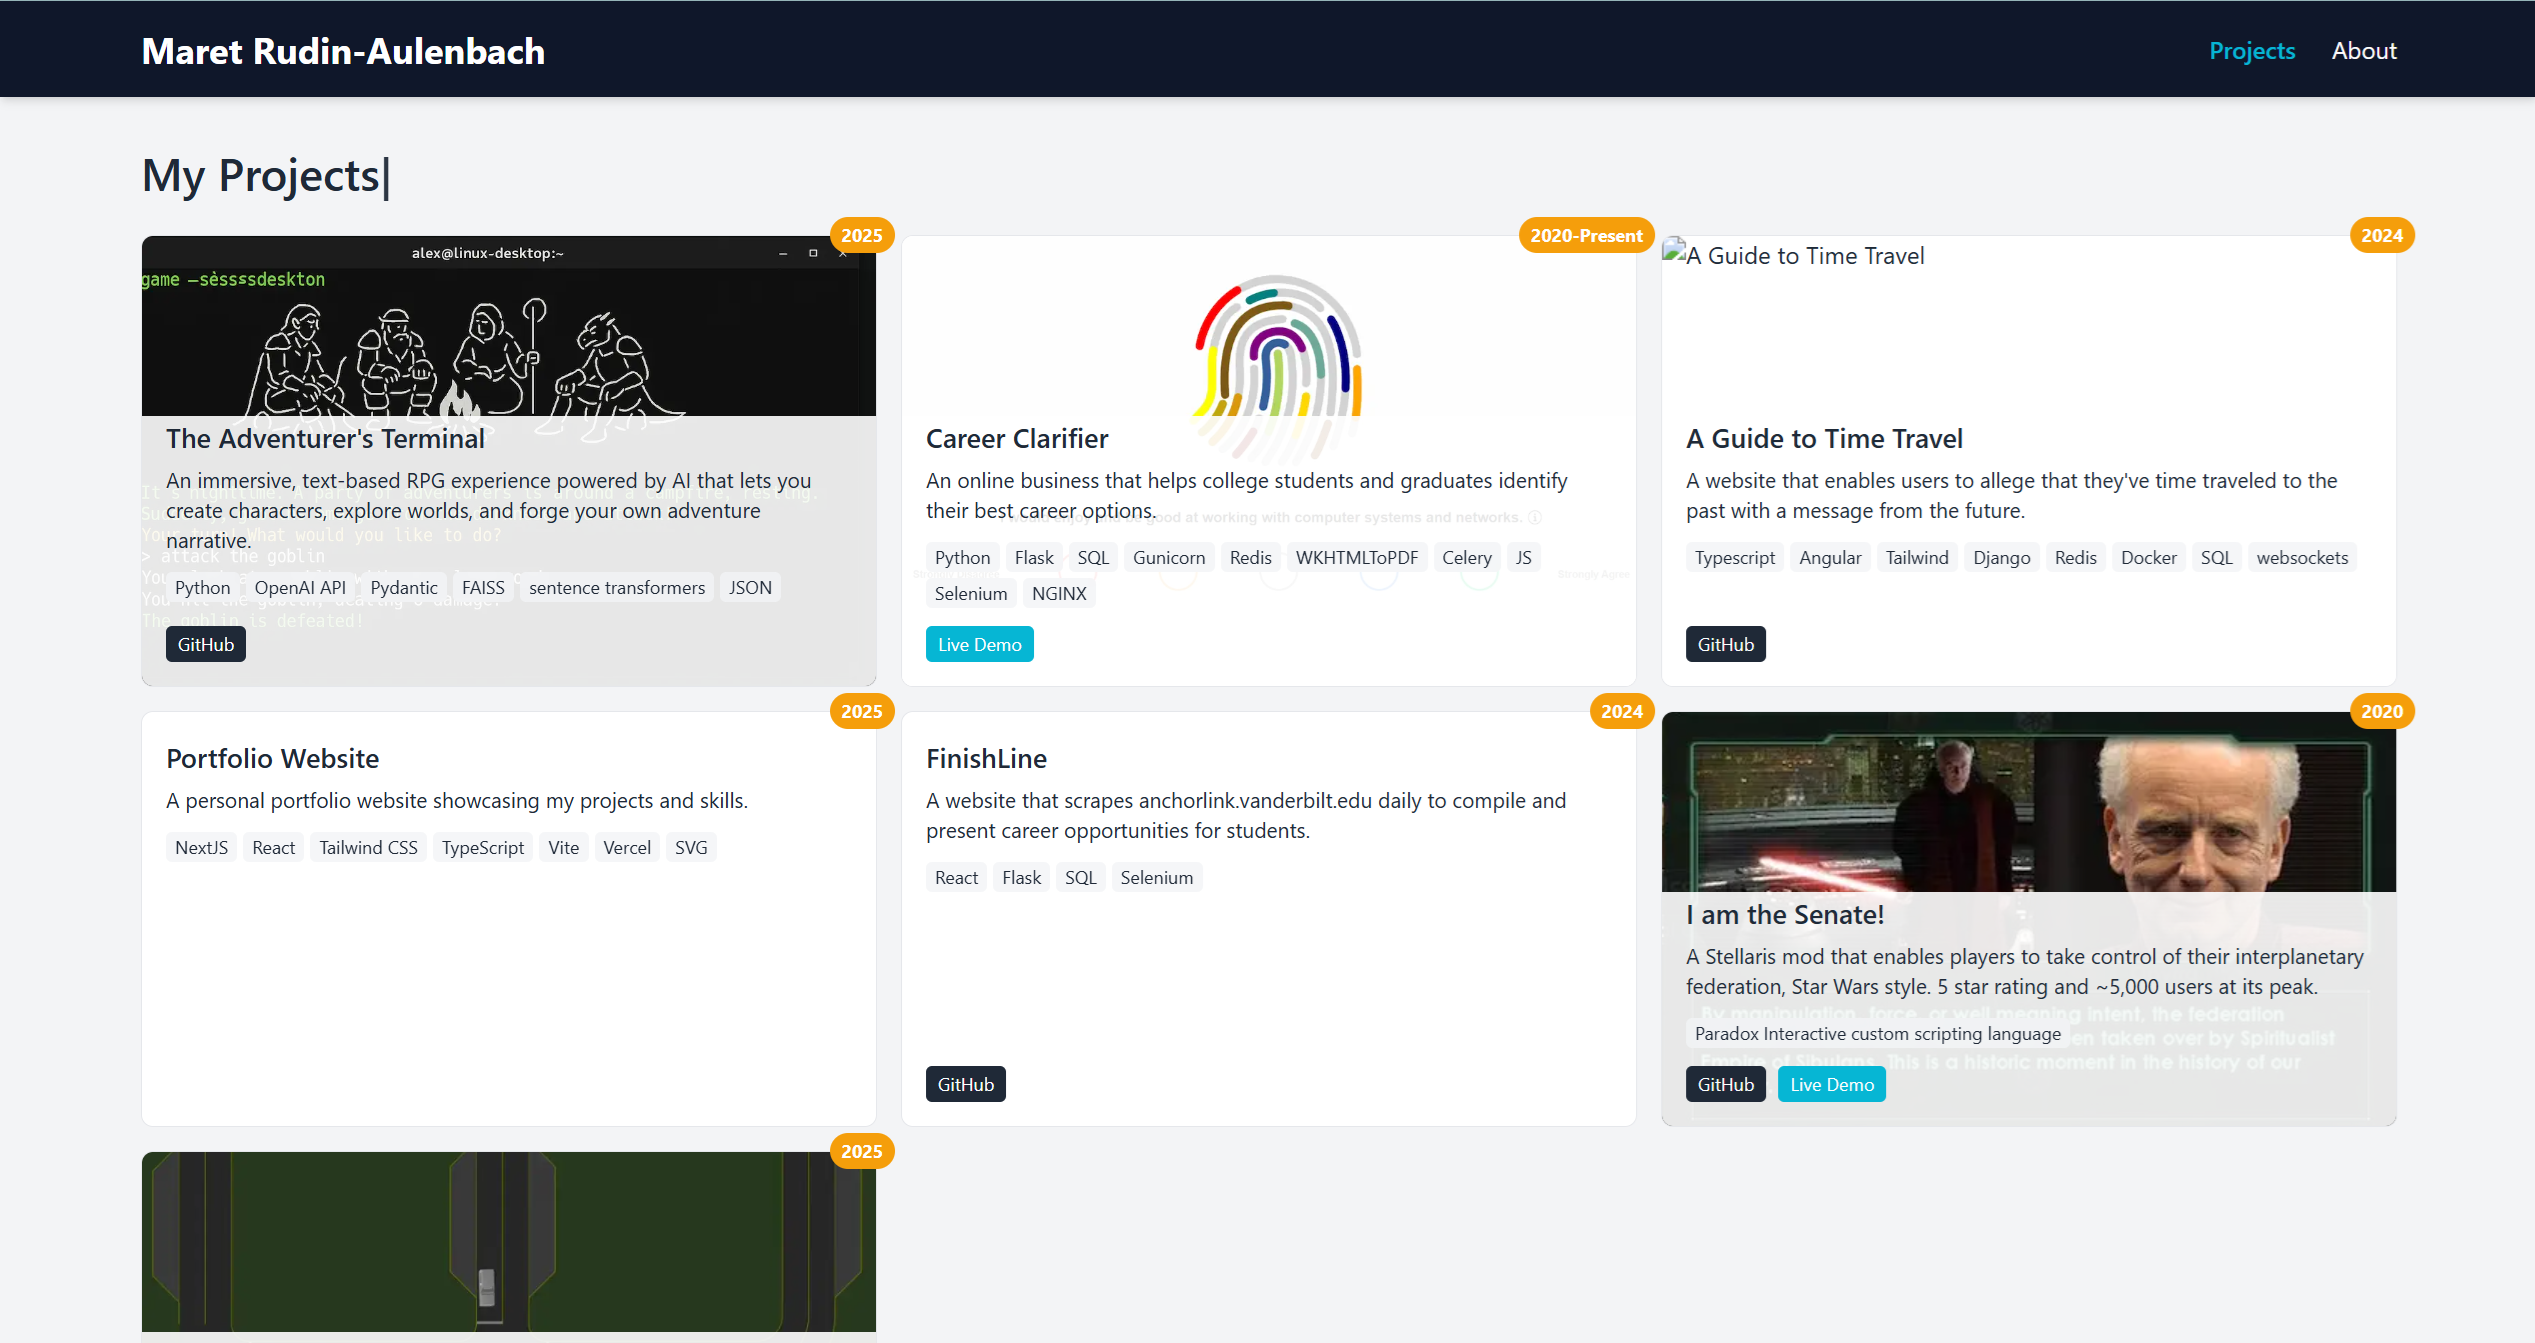
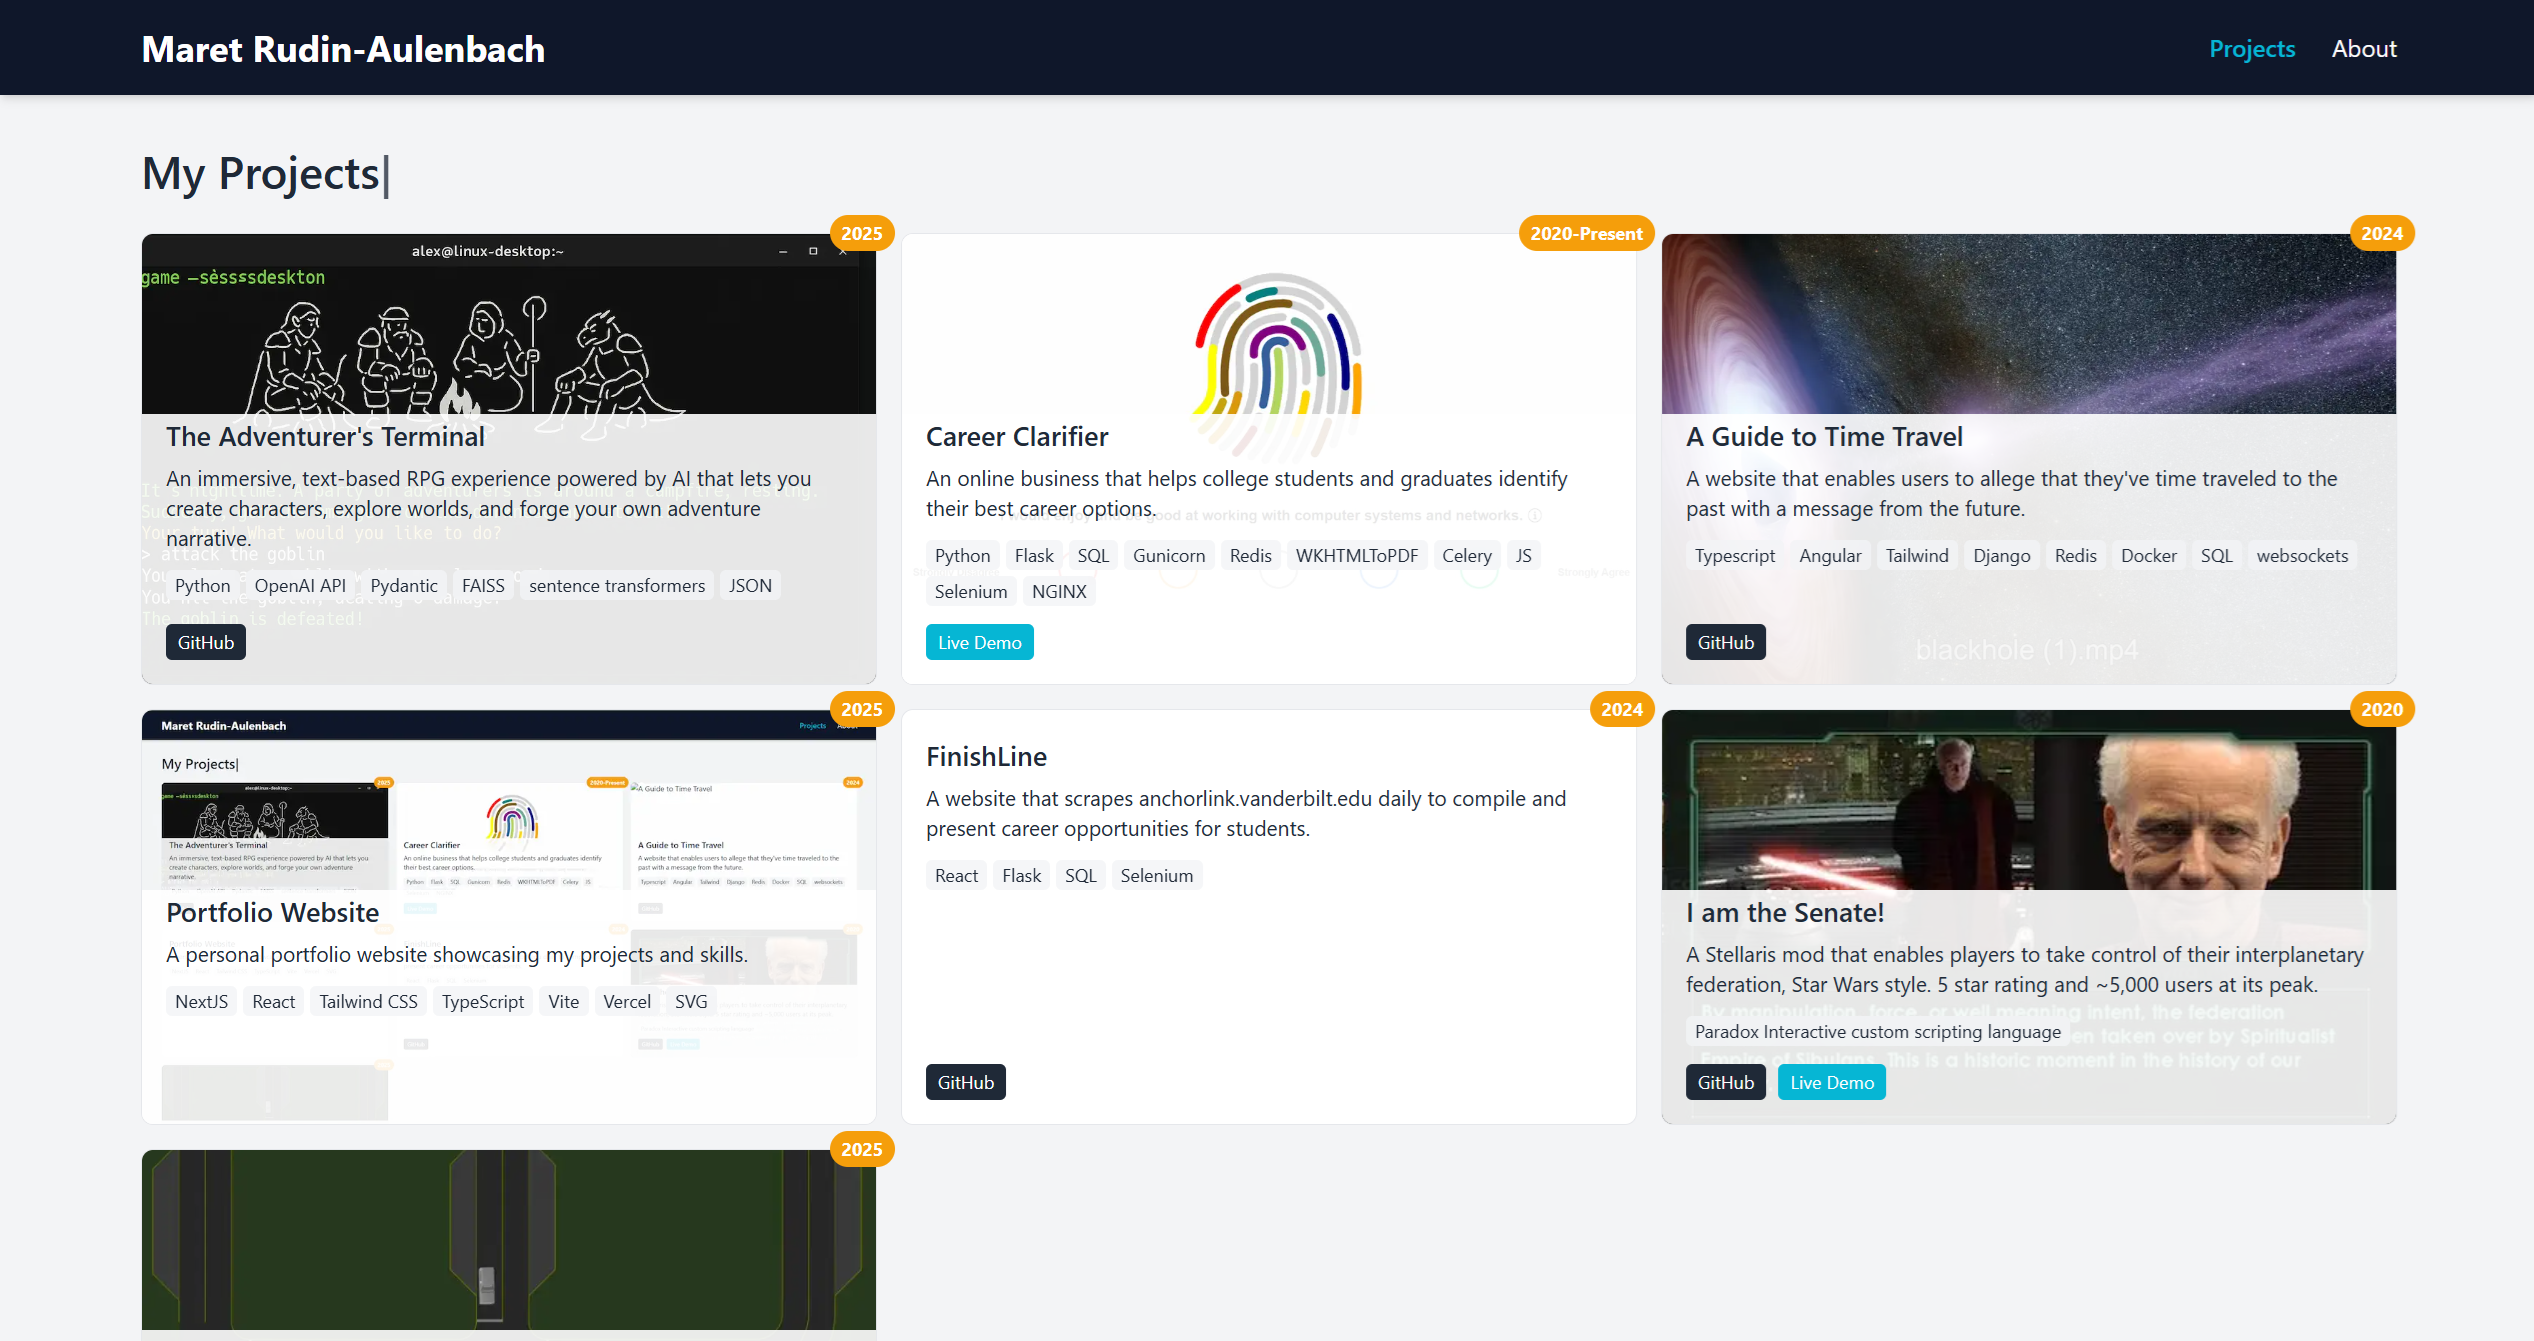
updated projects

diff --git a/src/components/Projects.tsx b/src/components/Projects.tsx
@@ -6,14 +6,6 @@ import { Project } from '../types/project';
 
 const projects: Project[] = [
   {
-    title: 'The Adventurer\'s Terminal',
-    description: 'An immersive, text-based RPG experience powered by AI that lets you create characters, explore worlds, and forge your own adventure narrative.',
-    githubLink: 'https://github.com/MaretRudAul/The_Adventurers_Terminal',
-    image: '/images/the_adventurers_terminal.png',
-    year: '2025',
-    techStack: ['Python', 'OpenAI API', 'Pydantic', 'FAISS', 'sentence transformers', 'JSON']
-  },
-  {
     title: 'Career Clarifier',
     description: 'An online business that helps college students and graduates identify their best career options.',
     liveLink: 'https://careerclarifier.com',
@@ -22,13 +14,30 @@ const projects: Project[] = [
     techStack: ['Python', 'Flask', 'SQL', 'Gunicorn', 'Redis', 'WKHTMLToPDF', 'Celery', 'JS', 'Selenium', 'NGINX']
   },
   {
+    title: 'Autonomous Vehicle Simulation',
+    description: 'Simulated an autonomous vehicle using Dijkstra\'s for routing, pure pursuit controller + modifications for decision making, an EKF with GPU + IMU data for localization, and camrera frame bounding boxes + EKF for perception. 2nd place in class competition.',
+    githubLink: '',
+    liveLink: 'https://www.youtube.com/watch?v=31X2WBa5Lyo',
+    image: '/images/cs3892.png',
+    year: '2025',
+    techStack: ['Julia']
+  },
+  {
     title: 'A Guide to Time Travel',
     description: 'A website that enables users to allege that they\'ve time traveled to the past with a message from the future.',
     githubLink: 'https://github.com/MaretRudAul/Time_Travelor_Website',
     liveLink: '',
-    image: '/src/assets/images/time_travel.png',
+    image: '/images/a_guide_to_time_travel.png',
     year: '2024',
     techStack: ['Typescript', 'Angular', 'Tailwind', 'Django', 'Redis', 'Docker', 'SQL', 'websockets']
+  },
+  {
+    title: 'The Adventurer\'s Terminal',
+    description: 'An immersive, text-based RPG experience powered by AI that lets you create characters, explore worlds, and forge your own adventure narrative.',
+    githubLink: 'https://github.com/MaretRudAul/The_Adventurers_Terminal',
+    image: '/images/the_adventurers_terminal.png',
+    year: '2025',
+    techStack: ['Python', 'OpenAI API', 'Pydantic', 'FAISS', 'sentence transformers', 'JSON']
   },
   {
     title: 'Portfolio Website',
@@ -81,15 +90,7 @@ const projects: Project[] = [
   //   year: 'Year',
   //   techStack: ['Tech', 'Stack']
   // },
-  {
-    title: 'Autonomous Vehicle Simulation',
-    description: 'Simulated an autonomous vehicle using Dijkstra\'s for routing, pure pursuit controller + modifications for decision making, an EKF with GPU + IMU data for localization, and camrera frame bounding boxes + EKF for perception. 2nd place in class competition.',
-    githubLink: '',
-    liveLink: 'https://www.youtube.com/watch?v=31X2WBa5Lyo',
-    image: '/images/cs3892.png',
-    year: '2025',
-    techStack: ['Julia']
-  },
+  
   // {
   //   title: 'Cybersecurity Final Paper',
   //   description: '',
